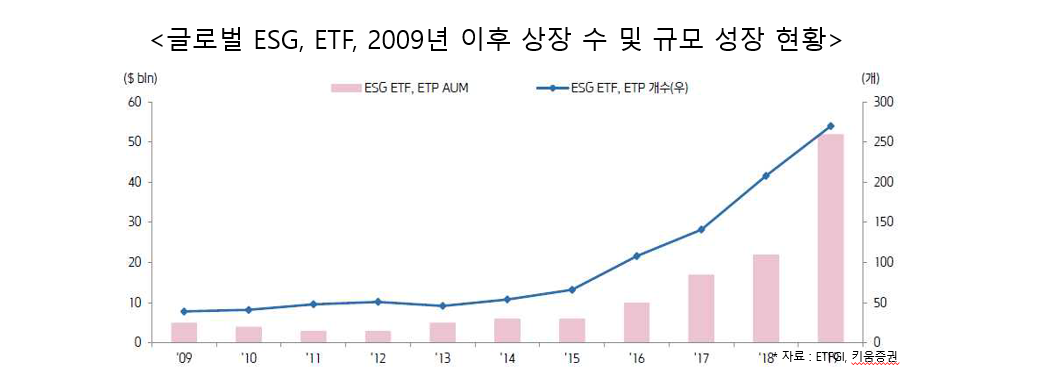
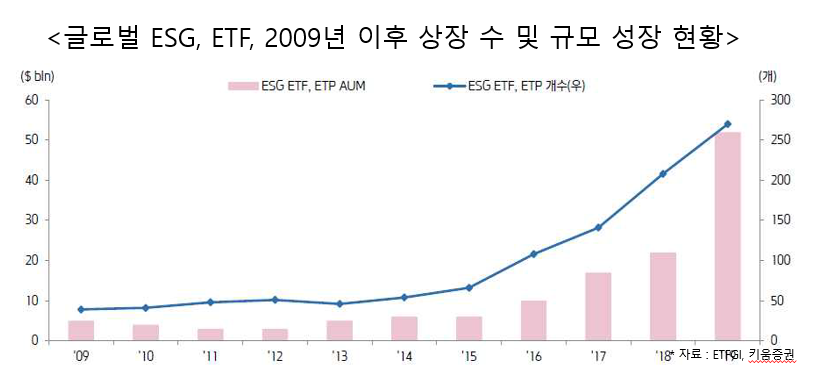
Update graph image

diff --git a/src/components/whatIsESG.jsx b/src/components/whatIsESG.jsx
@@ -22,9 +22,7 @@ export default class WhatIsESG extends Component {
           <p className="modal-text-middle">ESG란 기존에 재무적 성과만을 추구하던 기업들이 지속가능한 성장을 이루기 위해 고려하기 시작한 비재무적 요소들입니다. 각각 Environment, Social, Governance의 줄임말로, 우리말로 바꾸면 환경, 사회, 지배구조와 관련된 개념이라고 할 수 있습니다.</p>
           <p className="modal-text"> 환경 측면에는 기후변화 영향, 친환경 제품 개발 등의 요소를 꼽을 수 있으며, 사회 측면에는 공정한 채용, 산업안전, 공정한 경쟁 등의 요소가 있고, 마지막으로 지배구조의 측면에는 주주 권리 실현, 이사회 투명성 등을 고려하게 됩니다.</p>
           <img className="center-img" src="https://github.com/mooyeon-choi/webzine/blob/main/src/images/esg02.png?raw=true" alt="esg"/>
-          <img className="center-img" src="https://github.com/mooyeon-choi/webzine/blob/main/src/images/erg-graph02.png?raw=true" alt="esg"/>
-          <img className="center-img" src="https://github.com/mooyeon-choi/webzine/blob/main/src/images/esg-graph01.png?raw=true" alt="esg"/>
-          <img className="center-img" src="https://github.com/mooyeon-choi/webzine/blob/main/src/images/esg-graph00.png?raw=true" alt="esg"/>
+          <img className="center-img" src="https://github.com/mooyeon-choi/webzine/blob/main/src/images/KakaoTalk_20210107_142245990_01.png?raw=true" alt="esg"/>
         </header>
       </article>
     )
